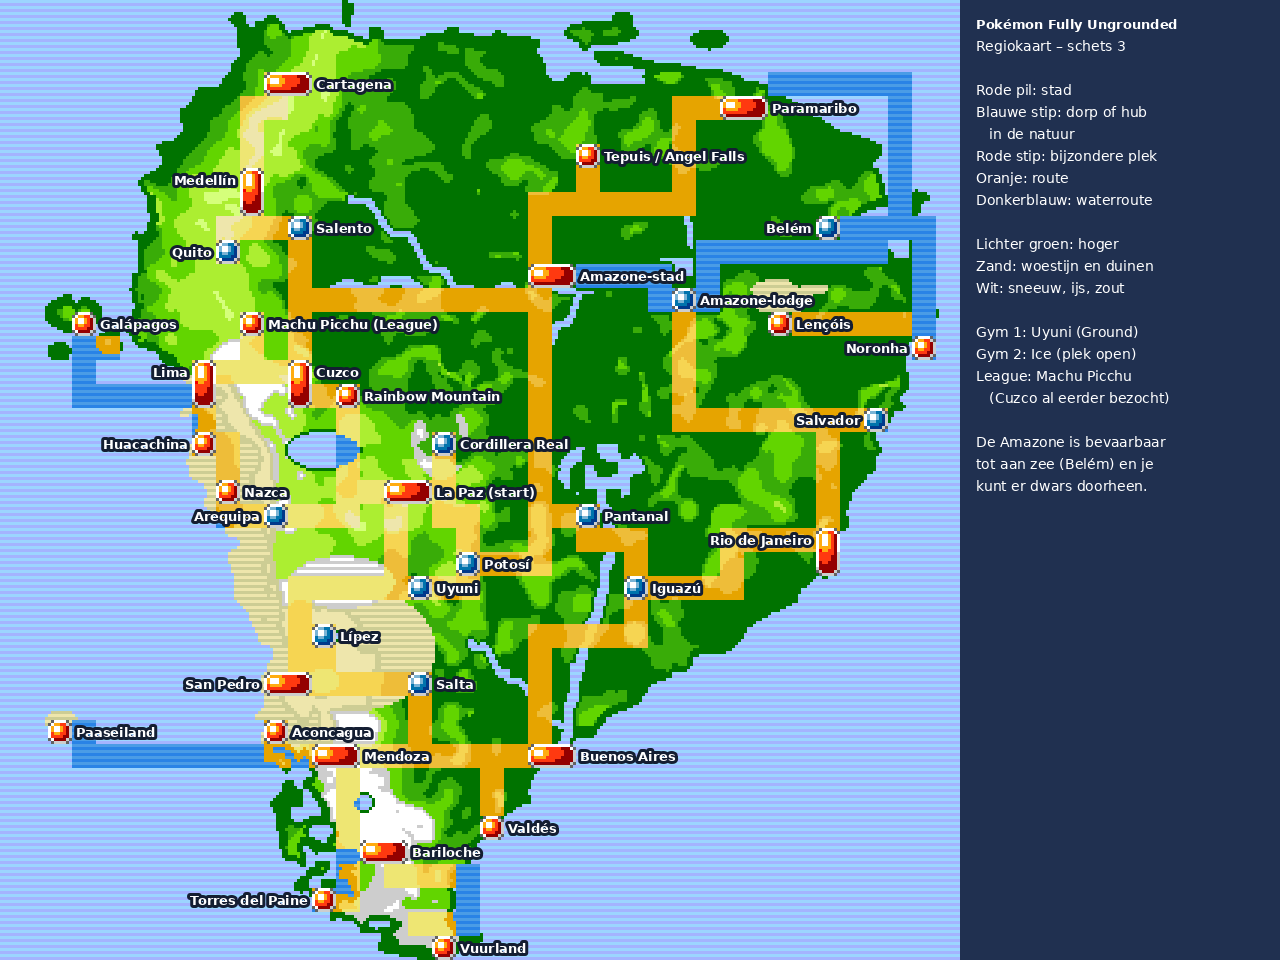
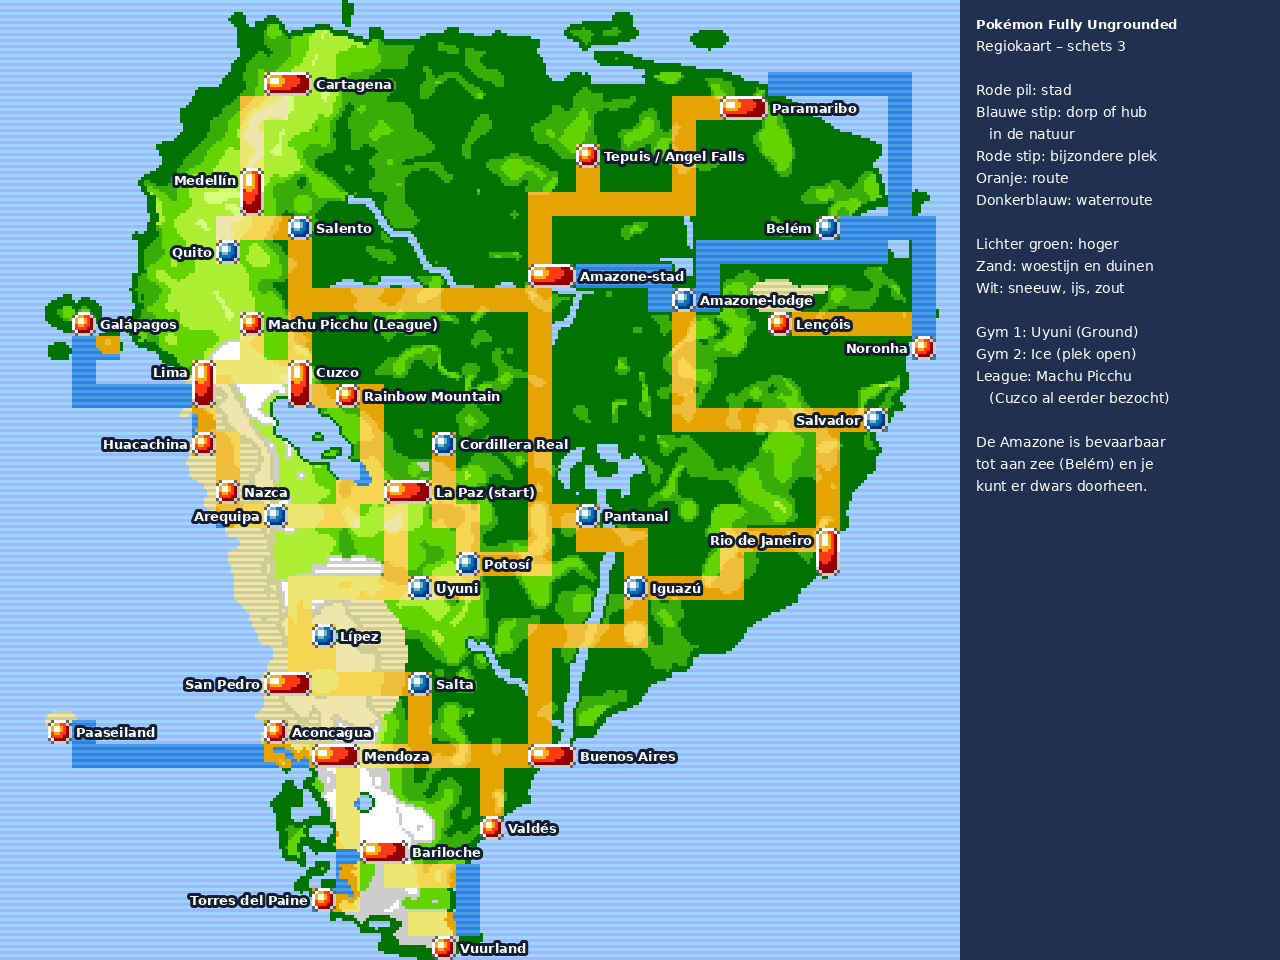
Regiokaart: Titicaca langgerekt met zeestraat/schiereiland/eiland, altiplano als langgerekte hoogvlakte, zoutvlakte en Lípez grilliger; idee vlieg-Pokémon

Changed region(s): [[0.1875, 0.3438, 0.4062, 0.7188], [0.25, 0.7188, 0.3125, 0.7812]]

diff --git a/tools/concept/regiokaart.py b/tools/concept/regiokaart.py
@@ -48,6 +48,13 @@ fine = value_noise(40, 4)
 def ellipse(x0, y0, rx, ry):
     return ((cx - x0) / rx) ** 2 + ((cy - y0) / ry) ** 2 < 1
 
+def rellipse(x0, y0, rx, ry, deg):
+    t = math.radians(deg)
+    dx, dy = cx - x0, cy - y0
+    u = (dx * math.cos(t) + dy * math.sin(t)) / rx
+    v = (-dx * math.sin(t) + dy * math.cos(t)) / ry
+    return u * u + v * v < 1
+
 # ---------- land: een gestileerd continent (geïnspireerd, niet nagemeten) ----------
 def interp(pts, y):
     return np.interp(y, [p[0] for p in pts], [p[1] for p in pts])
@@ -142,7 +149,9 @@ mainland = land & (land_lab == int(np.argmax(land_sizes)))
 # ---------- hoogte ----------
 ridge = wc + 3.0 + 0.6 * np.sin(cy * 0.45)
 andes = np.exp(-((cx - ridge) / 2.6) ** 2)
-plateau = np.exp(-(((cx - 15.5) / 4.0) ** 2 + ((cy - 20.5) / 4.5) ** 2) ** 1.5)    # altiplano
+# altiplano: een langgerekte hoogvlakte tussen de twee bergketens, met een grillige rand (geen cirkel)
+plateau = (np.exp(-((cx - (wc + 6.3 + (n - 0.5) * 3)) / 2.4) ** 2)
+           * np.clip(1 - np.abs(cy - 22) / 7 + (n - 0.5) * 0.6, 0, 1))
 brazil = 0.35 * np.exp(-(((cx - 31) / 4.5) ** 2 + ((cy - 17) / 5) ** 2))
 tepui = 0.35 * np.exp(-(((cx - 25) / 4) ** 2 + ((cy - 5.5) / 2) ** 2))
 amazon = np.exp(-(((cx - 25) / 9) ** 2 + ((cy - 11) / 5) ** 2))
@@ -182,7 +191,7 @@ lvl[coast] = 0
 # ---------- biomen (in Hoenn-kleuren) ----------
 biome = np.zeros((PH, PW), int)   # 0 groen, 2 woestijn, 3 sneeuw, 4 zout
 desert = land & (cy > 15.5) & (cy < 31) & (cx < ridge - 0.8 + (n - 0.5) * 2)
-desert |= land & ellipse(14.5, 27, 3.6, 2.6)                                       # Atacama-hoogland/Lípez
+desert |= land & rellipse(14.5 + (n - 0.5) * 1.6, 27 + (n - 0.5) * 1.6, 3.2, 2.2, 70)   # Atacama-hoogland/Lípez
 desert |= land & ellipse(32.5 + (value_noise(93, 5) - 0.5) * 1.2, 12.2 + (value_noise(94, 5) - 0.5) * 0.6, 1.4, 0.7)                                  # Lençóis Maranhenses
 biome[desert] = 2
 snow = land & (((lvl >= 4) & (cy > 14) & (cy < 31) & (andes > 0.75) & (biome != 2))
@@ -190,9 +199,18 @@ snow = land & (((lvl >= 4) & (cy > 14) & (cy < 31) & (andes > 0.75) & (biome != 
                | (ellipse(18.3, 18.3, 1.2, 1.6) & (lvl >= 2))                      # Cordillera Real
                | (ellipse(13.4, 28.3, 0.7, 0.5)))                                 # vulkanen/sneeuw van Lípez
 biome[snow] = 3
-salt = ellipse(14.2, 24.2, 2.2, 1.1) & (n > 0.3)
+sn = (value_noise(92, 4) - 0.5) * 0.7
+salt = ((rellipse(14.0, 24.2, 1.9 + sn, 0.9 + sn, -15) | rellipse(15.2, 23.6, 0.9 + sn, 0.5 + sn, 30)
+         | rellipse(12.9, 24.9, 0.7 + sn, 0.45, 10)) & ~ellipse(14.3, 24.3, 0.25, 0.15))   # Uyuni + Coipasa-lob, Isla Incahuasi
 biome[salt] = 4
-lakes = ((ellipse(13.4, 18.7, 1.5, 0.75) & (n > 0.3))                            # Titicaca
+# Titicaca: langgerekt noordwest-zuidoost, groot meer + klein zuidoostelijk meer via een smalle zeestraat,
+# met een grillige oever, het schiereiland van Copacabana en de Isla del Sol
+tn = (value_noise(91, 4) - 0.5) * 0.5
+titicaca = ((rellipse(12.9, 18.0, 2.0 + tn, 0.8 + tn, 38) | rellipse(14.5, 19.55, 0.85 + tn, 0.45 + tn / 2, 20)
+             | rellipse(13.85, 19.05, 0.45, 0.12, 40))
+            & ~rellipse(13.75, 18.85, 0.5, 0.22, -20)        # schiereiland van Copacabana
+            & ~ellipse(13.2, 18.15, 0.28, 0.16))             # Isla del Sol
+lakes = (titicaca
          | ellipse(13.3, 34.6, 0.5, 0.3) | ellipse(14.4, 35.6, 0.6, 0.35) | ellipse(15.1, 33.4, 0.4, 0.3)
          | ellipse(13.6, 26.4, 0.45, 0.3)                                         # Laguna Colorada
          | (ellipse(25, 19.6, 1.8, 1.2) & (value_noise(70, 4) > 0.55)))          # Pantanal
@@ -316,7 +334,7 @@ path((13, 26), (13, 27), (12, 27), (12, 28))               # Lípez -> San Pedro
 path((17, 24), (19, 24), (19, 23))                         # Uyuni -> Potosí
 path((19, 23), (19, 21), (18, 21), (18, 18))               # Potosí -> Cordillera Real
 path((16, 20), (18, 20))                                   # La Paz -> Cordillera Real
-path((16, 20), (14, 20), (14, 16), (12, 16), (12, 15))     # langs het Titicacameer naar Cuzco
+path((16, 20), (15, 20), (15, 16), (12, 16), (12, 15))     # langs het Titicacameer naar Cuzco
 path((12, 15), (10, 15), (10, 13))                         # Machu Picchu
 path((12, 15), (8, 15))                                    # Cuzco -> Lima
 path((8, 15), (8, 18), (9, 18), (9, 20))                   # Lima -> Huacachina -> Nazca

diff --git a/docs/concept/IDEEEN.md b/docs/concept/IDEEEN.md
@@ -61,3 +61,4 @@ La Paz (start), Cuzco, Rio de Janeiro, Lima, San Pedro de Atacama, Mendoza, Buen
 - Capibara als inspiratie voor de vroege routeknager/-zoogdier (Jordi). Let op immersie: capibara's leven in laagland bij water, niet op de altiplano rond La Paz/Uyuni (daar: viscacha, cavia/cuy, chinchilla).
 - Mug als bug (Jordi): iets minder early route, een beetje zoals Kricketot in Sinnoh; verschijnt zodra je in lager/warmer gebied komt (boven ±3000 m bijna geen muggen).
 - Viscacha (Jordi heeft ze gezien, bijv. in Lípez/Atacama): kandidaat voor de vroege knager op de hoogvlakte. Familie Chinchillidae (neef van de chinchilla), lange konijnenoren, lange krulstaart, zit te zonnen op rotsen.
+- Vlieg: er is nog geen Pokémon op een (huis)vlieg gebaseerd (Jordi). Kandidaat voor de jungle of de stad.
